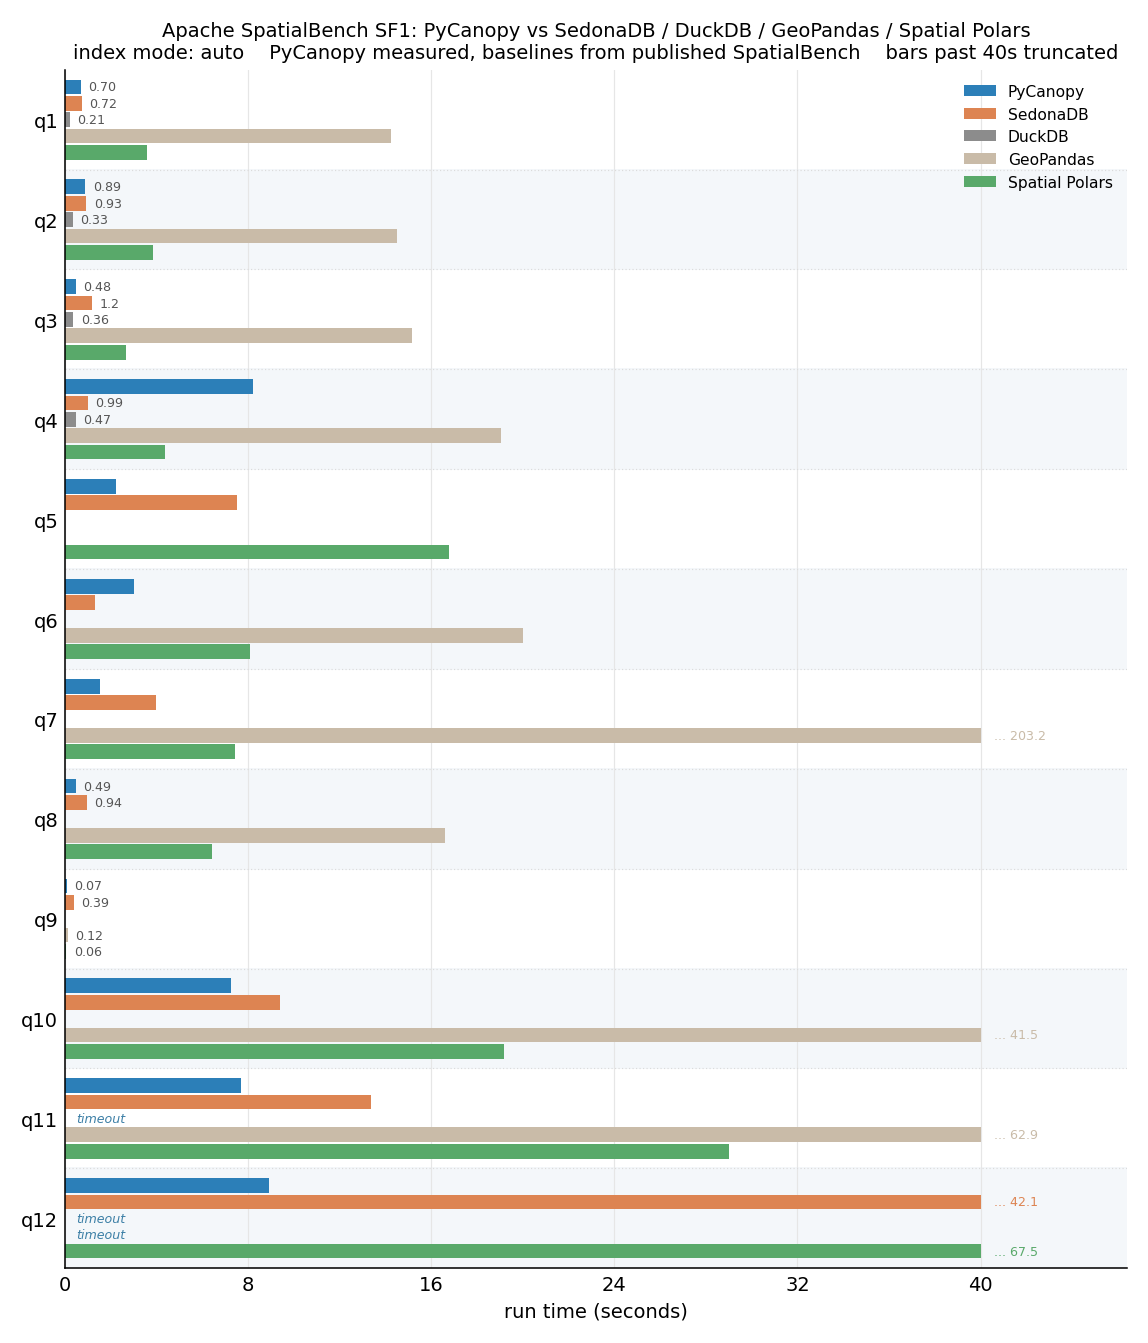
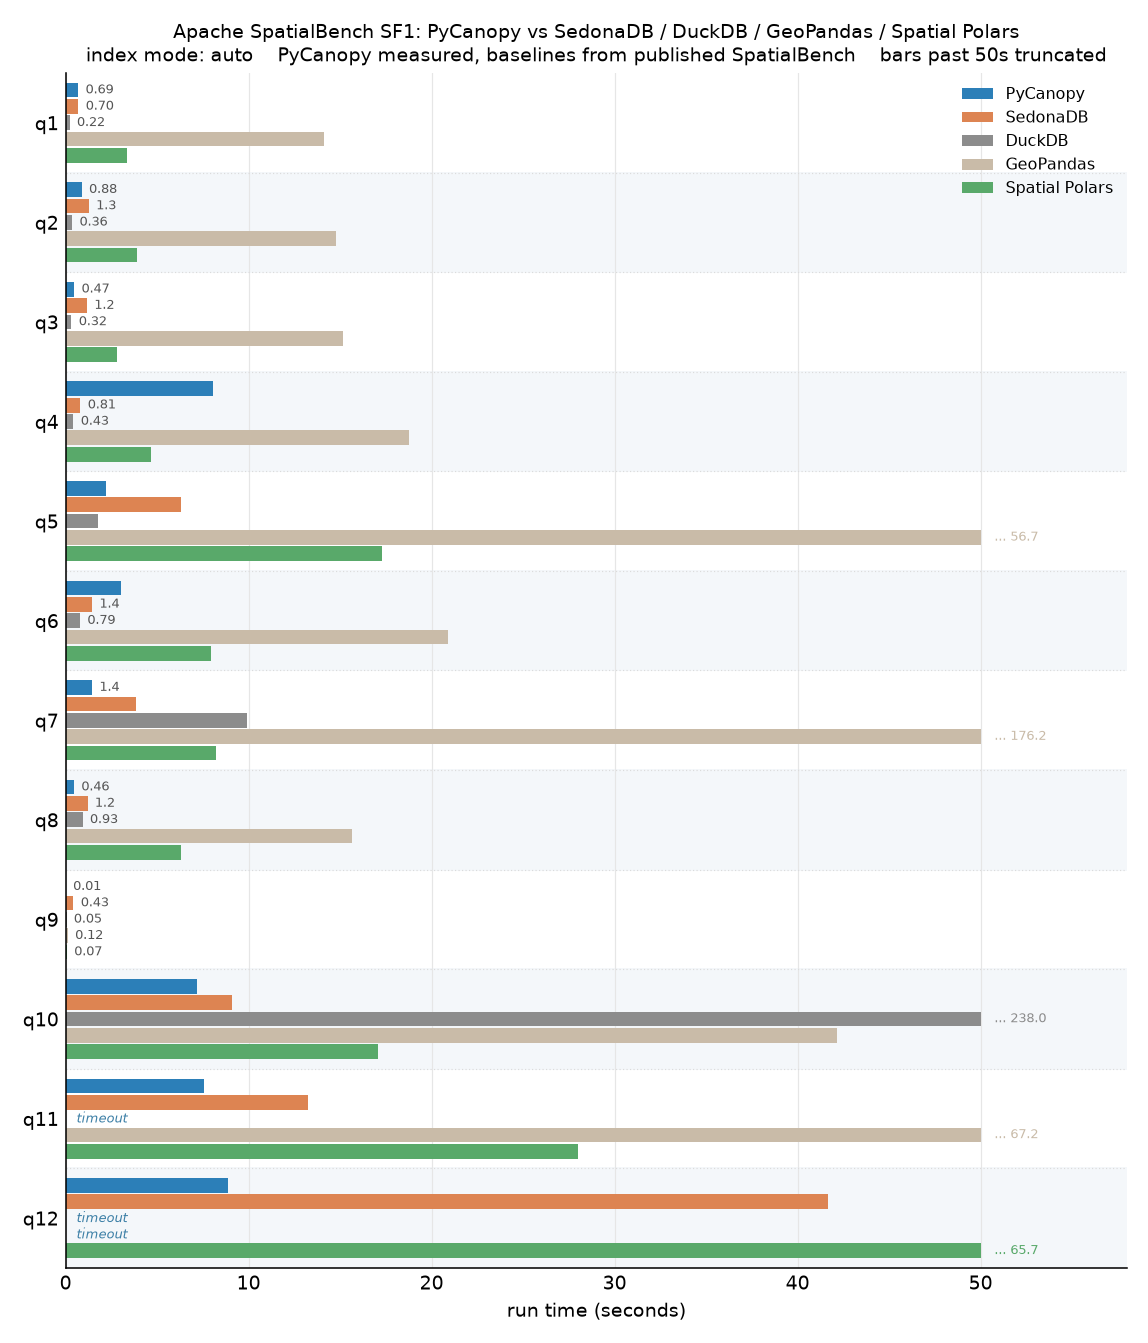
bench+docs: fix SF1 baseline to full published numbers, update README win counts
Complete the PUBLISHED SF1 dict with DuckDB results for q5-q10 and GeoPandas
for q5, which were missing from our data. Regenerate the SF1 chart so all five
engines appear for every query. Update README NOTE and prose to reflect the
correct win counts: 6/12 at SF1 (q7-q12), 7/12 at SF10 (q5, q7-q12).

diff --git a/bench/spatial_bench/utils.py b/bench/spatial_bench/utils.py
@@ -30,32 +30,32 @@ _ASSETS_DIR = Path(__file__).resolve().parents[2] / "assets"
 # m7i.2xlarge (8 vCPU, 32 GB), 600 s timeout, SedonaDB 0.3.0 / DuckDB 1.5.4 /
 # GeoPandas 1.1.3 / Spatial Polars 0.3.0. A value is seconds, "TIMEOUT", or "ERROR"
 # (no bar rendered, status annotated on the chart). Missing entries (no key) render
-# as no bar. DuckDB SF1 Q5-Q10 and GeoPandas SF1 Q5 were not reported in that run.
+# as no bar.
 PUBLISHED_ENGINES = ("SedonaDB", "DuckDB", "GeoPandas", "Spatial Polars")
 
 PUBLISHED: dict[int, dict[str, dict[str, float | str]]] = {
     1: {
-        "q1": {"SedonaDB": 0.72, "DuckDB": 0.21, "GeoPandas": 14.26, "Spatial Polars": 3.60},
-        "q2": {"SedonaDB": 0.93, "DuckDB": 0.33, "GeoPandas": 14.49, "Spatial Polars": 3.84},
-        "q3": {"SedonaDB": 1.19, "DuckDB": 0.36, "GeoPandas": 15.16, "Spatial Polars": 2.67},
-        "q4": {"SedonaDB": 0.99, "DuckDB": 0.47, "GeoPandas": 19.06, "Spatial Polars": 4.36},
-        "q5": {"SedonaDB": 7.53, "Spatial Polars": 16.77},
-        "q6": {"SedonaDB": 1.32, "GeoPandas": 20.03, "Spatial Polars": 8.07},
-        "q7": {"SedonaDB": 3.97, "GeoPandas": 203.21, "Spatial Polars": 7.41},
-        "q8": {"SedonaDB": 0.94, "GeoPandas": 16.61, "Spatial Polars": 6.41},
-        "q9": {"SedonaDB": 0.39, "GeoPandas": 0.12, "Spatial Polars": 0.06},
-        "q10": {"SedonaDB": 9.40, "GeoPandas": 41.45, "Spatial Polars": 19.17},
+        "q1": {"SedonaDB": 0.70, "DuckDB": 0.22, "GeoPandas": 14.12, "Spatial Polars": 3.34},
+        "q2": {"SedonaDB": 1.27, "DuckDB": 0.36, "GeoPandas": 14.79, "Spatial Polars": 3.91},
+        "q3": {"SedonaDB": 1.17, "DuckDB": 0.32, "GeoPandas": 15.15, "Spatial Polars": 2.80},
+        "q4": {"SedonaDB": 0.81, "DuckDB": 0.43, "GeoPandas": 18.75, "Spatial Polars": 4.65},
+        "q5": {"SedonaDB": 6.29, "DuckDB": 1.79, "GeoPandas": 56.74, "Spatial Polars": 17.27},
+        "q6": {"SedonaDB": 1.45, "DuckDB": 0.79, "GeoPandas": 20.90, "Spatial Polars": 7.96},
+        "q7": {"SedonaDB": 3.85, "DuckDB": 9.89, "GeoPandas": 176.15, "Spatial Polars": 8.23},
+        "q8": {"SedonaDB": 1.20, "DuckDB": 0.93, "GeoPandas": 15.63, "Spatial Polars": 6.30},
+        "q9": {"SedonaDB": 0.43, "DuckDB": 0.05, "GeoPandas": 0.12, "Spatial Polars": 0.07},
+        "q10": {"SedonaDB": 9.11, "DuckDB": 238.03, "GeoPandas": 42.17, "Spatial Polars": 17.05},
         "q11": {
-            "SedonaDB": 13.36,
+            "SedonaDB": 13.23,
             "DuckDB": "TIMEOUT",
-            "GeoPandas": 62.91,
-            "Spatial Polars": 29.01,
+            "GeoPandas": 67.20,
+            "Spatial Polars": 28.02,
         },
         "q12": {
-            "SedonaDB": 42.09,
+            "SedonaDB": 41.66,
             "DuckDB": "TIMEOUT",
             "GeoPandas": "TIMEOUT",
-            "Spatial Polars": 67.45,
+            "Spatial Polars": 65.71,
         },
     },
     10: {

diff --git a/README.md b/README.md
@@ -14,7 +14,7 @@
 ---
 
 > [!NOTE]
-> **State of the art on [Apache SpatialBench](https://github.com/apache/sedona-spatialbench):** fastest on 7 of 12 queries at both SF1 and SF10, beating SedonaDB, DuckDB, GeoPandas, and Spatial Polars on every heavy spatial join.
+> **State of the art on [Apache SpatialBench](https://github.com/apache/sedona-spatialbench):** fastest on 6 of 12 queries at SF1 and 7 of 12 at SF10, winning every heavy spatial join at both scales.
 
 Apache SpatialBench is the standard single-node spatial-analytics benchmark: 12 queries over millions of trips and zones. PyCanopy runs the whole suite in Polars-like syntax, never dropping to SQL or a separate engine.
 
@@ -347,14 +347,14 @@ sf.engine.flush()
 
 Run on a single `m7i.2xlarge` (8 vCPU, 32 GB), the same hardware used by [Apache SpatialBench](https://github.com/apache/sedona-spatialbench). PyCanopy is measured live with `index_mode="auto"`; SedonaDB 0.3.0, DuckDB 1.5.4, GeoPandas 1.1.3, and Spatial Polars 0.3.0 are snapshot numbers from [run #152](https://github.com/apache/sedona-spatialbench/actions/runs/27864209643) (2026-06-20).
 
-**SF1** (~6M trips). PyCanopy wins 7 of 12, taking all heavy spatial joins (q5, q7–q12). DuckDB wins q1–q4; SedonaDB wins q6.
+**SF1** (~6M trips). PyCanopy wins 6 of 12, taking every heavy spatial join (q7–q12). DuckDB wins q1–q6.
 
 <p align="center">
   <img src="assets/spatialbench_sf1_auto.png" alt="PyCanopy vs SedonaDB, DuckDB, and GeoPandas on Apache SpatialBench SF1" width="100%"/>
 </p>
 <p align="center"><sub>Apache SpatialBench SF1 · lower is better · linear axis, bars past the cap truncated with their value · TIMEOUT / ERROR annotated</sub></p>
 
-**SF10** (~60M trips). PyCanopy wins 7 of 12 and is the only engine to finish all 12. SedonaDB errors on q12, DuckDB OOMs on q7/q11 and times out on q10/q12, GeoPandas and Spatial Polars OOM on most queries. q12 returns a result larger than 32 GB; PyCanopy streams the join and spills the sort to disk.
+**SF10** (~60M trips). PyCanopy wins 7 of 12 and is the only engine to complete all 12. DuckDB wins q1–q4 and q6; GeoPandas and Spatial Polars error on most queries; SedonaDB errors on q12. q12 produces a result larger than 32 GB — PyCanopy streams the join out of core and finishes in 108s where every other engine fails.
 
 <p align="center">
   <img src="assets/spatialbench_sf10_auto.png" alt="PyCanopy vs SedonaDB, DuckDB, and GeoPandas on Apache SpatialBench SF10" width="100%"/>